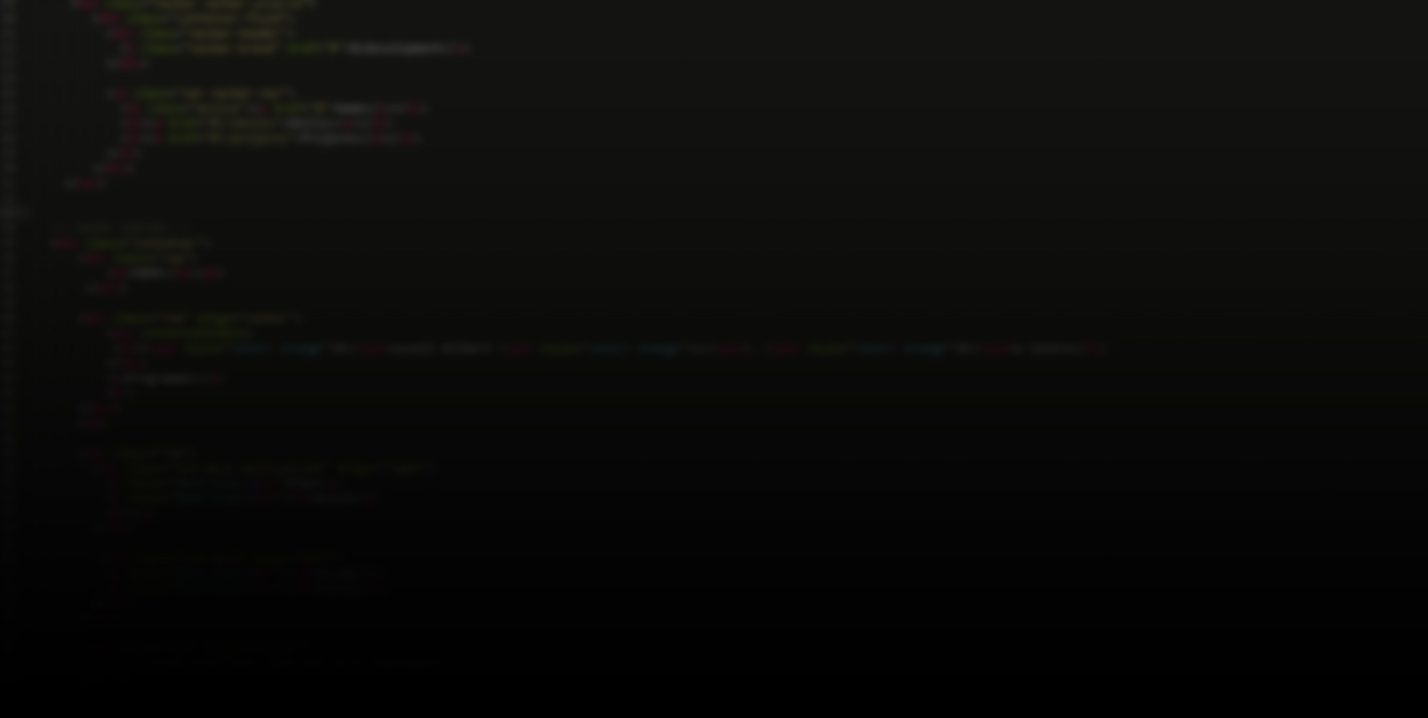
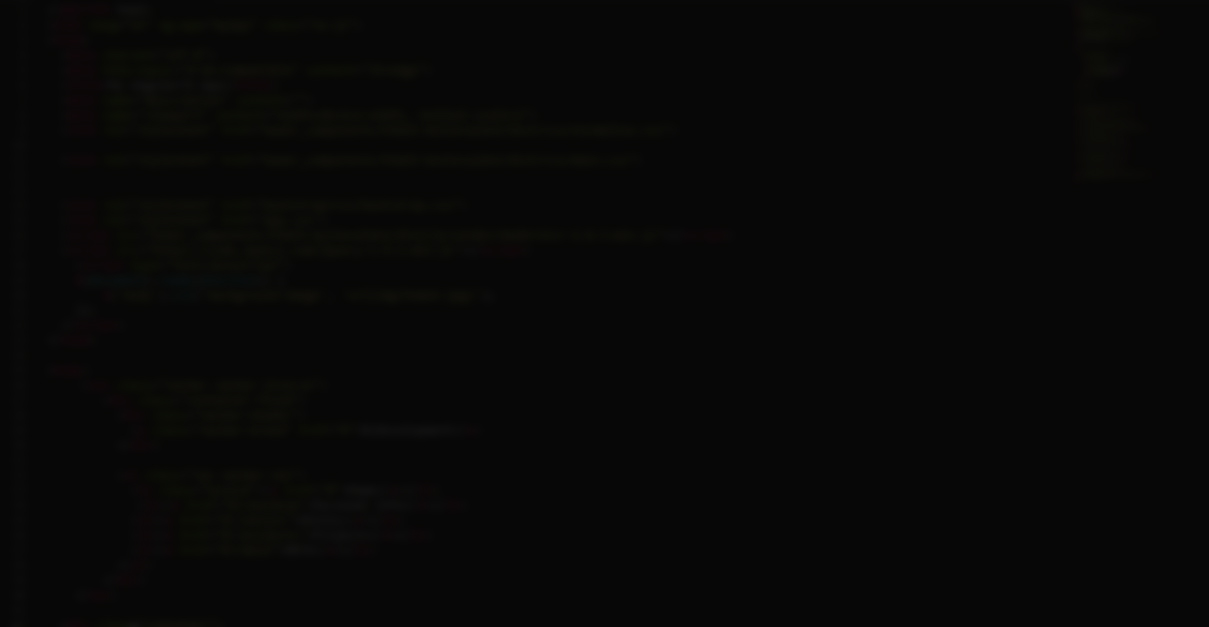
Added new tab for Work Exp, Seminars and Educational Attainment. Updated also home page, added About Me and link to upwork profile for professional reference

Changed region(s): [[0.0612, 0.0, 0.3366, 0.0909], [0.1836, 0.1212, 0.2754, 0.1818], [0.153, 0.1212, 0.1836, 0.1515]]

diff --git a/components/home/home-template.html b/components/home/home-template.html
@@ -1,10 +1,6 @@
-<div class="row">
-  <H2>HOME</H2><BR/>
-</div>
-
 <div class="row" align="center">
     <div contenteditable>
-     <h1><span style="color: orange">R</span>ussell Gilbert <span style="color: orange">L</span>. <span style="color: orange">D</span>e Castro</h1>
+     <h1><span class="orangeText">R</span>ussell Gilbert <span class="orangeText">L</span>. <span class="orangeText">D</span>e Castro</h1>
     </div>
     <p>Programmer</p>
     <br/>
@@ -12,18 +8,28 @@
 <BR/>
 
 <div class="row">
-  <div class="col-sm-6 verticalLine" align="right">
-    <p style="font-size:32px">Plan</p>
-    <p style="font-size:32px"><BR/>Build</p>
+  <div class="col-sm-6 verticalLine size32fnt" align="right">
+    <p>Plan</p>
+    <p><BR/>Build</p>
     <p></p>
   </div>
 
-   <div class="col-sm-6" align="left">
-    <p style="font-size:32px"><BR/>Design</p>
-    <p style="font-size:32px"><BR/>Deploy</p>
+   <div class="col-sm-6 size32fnt" align="left">
+    <p><BR/>Design</p>
+    <p><BR/>Deploy</p>
   </div>
 </div>
 
 <div class="row" align="center">
    <p><i>From front-end, back-end up to deployment.</i></p>
+   <BR>
+   <HR class="thinHR">
+
+   <div>
+   <H4>ABOUT ME</H4>
+   <p>With over 12 years of experience in software development using <B><I>JavaScript (jQuery,  angularJS and bootstrap), CSS, Adobe Flash (from MX up to CC version), Adobe  Director, Java, Android Studio, Php, HTML and MySQL</B></I>. I have a wide range of knowledge with both online, offline and mobile programming, my 1 year experience in Software Testing also aids me to produce a user friendly and high quality designs.</p>
+  </div>
+    <a href="https://www.upwork.com/o/profiles/users/_~018323515f2328e40e/" target="_blank">Upwork Profile</a> 
+    <BR> <BR>
+      <HR class="thinHR">
 </div>

diff --git a/components/workexp/workexp.component.js b/components/workexp/workexp.component.js
@@ -1,0 +1,62 @@
+'use strict';
+
+angular.module('workexp').
+	component('workexp',{
+		templateUrl:'components/workexp/workexp-template.html',
+		controller: function WorkListController(){
+
+			this.workExp = [
+				{
+					job:"Web and Mobile Developer",
+					year:"2010 – Present",
+					company:"IDESS Interactive Technologies Incorporated",
+					compULR:"http://idessinteractive.com/?home=1"
+				},
+				{	
+					job:"Multimedia Programmer",
+					year:"2005 – 2010",
+					company:"IDESS Interactive Technologies Incorporated",
+					compULR:"http://idessinteractive.com/?home=1"
+				},
+				{
+					job:"Software Tester",
+					year:"2004 – 2005",
+					company:"IDESS Interactive Technologies Incorporated",
+					compULR:"http://idessinteractive.com/?home=1"
+				}
+			];
+
+			this.seminars = [
+				{
+					title:"Introduction to JAVA",
+					year:"March 2008 – April 2008",
+					where:"AMA Learning Center – Olongapo City"
+				},
+				{
+					title:"ORACLE 9i",
+					year:"September 2007 – December 2007",
+					where:"Informatics SM Centerpoint Metro Manila"
+				},
+				{
+					title:"Web Page Designing Techniques",
+					year:"January 14, 2004",
+					where:"Bar Review Center, San Sebastian College – Recoletos, Manila"
+				},
+				{
+					title:"Internetworking Design Concepts",
+					year:"February 4,2004",
+					where:"Bar Review Center, San Sebastian College – Recoletos, Manila"
+				},
+				{
+					title:"Web Application Protocol",
+					year:"March 2004",
+					where:"Subic Seafront, Subic Bay Metropolitan Authority"
+				},
+				{
+					title:"PC Troubleshooting and Maintenance",
+					year:"December 10,2003",
+					where:"Bar Review Center, San Sebastian College – Recoletos, Manila"
+				}
+			];
+		}
+	});

diff --git a/components/mbta/mbta.component.js b/components/mbta/mbta.component.js
@@ -6,10 +6,30 @@ angular.module('mbta').
 		controller: function ProjectListController($http){
 		   var self = this;
 
-		    $http.get('https://realtime.mbta.com/developer/api/v2/stopsbylocation?api_key=wX9NwuHnZU2ToO7GmGR9uw&lat=42.346961&lon=-71.076640&format=json').
+
+		     //GET GEOLOC HERE
+  			/*navigator.geolocation.getCurrentPosition(getPos);
+
+  			function getPos(position) {
+			    self.lat = position.coords.latitude;
+			    self.long = position.coords.longitude;
+			}*/
+  			$http.get('http://ip-api.com/json').
 		    then(function(response) {
-       			 self.mbtaRes = response.data;
-    	  	});
+       			 self.geoLoc = response.data;
+       			 self.lat = response.data.lat;
+       			 self.lot = response.data.lon;
+       			 /*  $http.get('https://realtime.mbta.com/developer/api/v2/stopsbylocation?api_key=wX9NwuHnZU2ToO7GmGR9uw&lat='+response.data.lat+'&lon='+response.data.lon+'&format=json').
+				    then(function(response) {
+		       			 self.mbtaRes = response.data;
+		    	  	});*/
+       		});
+
+
+		         $http.get('https://realtime.mbta.com/developer/api/v2/stopsbylocation?api_key=wX9NwuHnZU2ToO7GmGR9uw&lat=42.346961&lon=-71.076640&format=json').
+				    then(function(response) {
+		       			 self.mbtaRes = response.data;
+		    	  	});
 		    
 		    this.stopID = "11384";
 		  
@@ -21,5 +41,7 @@ angular.module('mbta').
 
 		    	//this.stopID = ('http://realtime.mbta.com/developer/api/v2/routesbystop?api_key=wX9NwuHnZU2ToO7GmGR9uw&stop='+this.stopID+'&format=json');
   			}
+
+
 		}
 	});

diff --git a/components/workexp/workexp-template.html b/components/workexp/workexp-template.html
@@ -1,0 +1,49 @@
+<div class="row">
+  <H2>PERSONAL INFO</H2>
+  <HR>
+  <BR>
+</div>
+
+<div class="container-fluid"> 
+  <div class="row">
+      <div class="col-sm-4">
+      
+
+      </div>
+   
+      <div class="col-sm-4" align="center">
+        <H2><B>Work Experience</B></H2><BR>
+        <div class="row" ng-repeat="work in $ctrl.workExp">
+          <H3><span class="orangeText">{{work.job}}</span></H3>
+          <p>{{work.year}}</p>
+          <p>{{work.company}}</p>
+          <a href="{{work.compULR}}" target="_blank">Company Website</a>
+          <HR class="thinHR">
+        </div> 
+
+          <BR><BR>
+         <H2><B>Educational Background</B></H2><BR>
+         <div class="row">
+            <H3><span class="orangeText">Bachelor of Science Major in Computer Science</span></H3>
+            <p>1999 – 2004</p>
+            <p>San Sebastian College - Recoletos</p>
+            <HR class="thinHR">
+         </div>    
+         <BR><BR>
+         <H2><B>Seminars/Certifications</B></H2><BR>
+          <div class="row" ng-repeat="sems in $ctrl.seminars">
+          <H3><span class="orangeText">{{sems.title}}</span></H3>
+          <p>{{sems.year}}</p>
+          <p>{{sems.where}}</p>
+          <HR class="thinHR">
+        </div> 
+      </div>
+
+      <div class="col-sm-4">
+      </div>
+   </div> 
+
+   <div class="row">
+
+   </div>  
+</div>

diff --git a/index.html b/index.html
@@ -31,6 +31,7 @@
 
           <ul class="nav navbar-nav">
             <li class="active"><a href="#">Home</a></li>
+             <li><a href="#!/workexp">Personal Info</a></li>
             <li><a href="#!/skills">Skills</a></li>
             <li><a href="#!/projects">Projects</a></li>
             <li><a href="#!/mbta">MBTA</a></li>
@@ -42,11 +43,12 @@
     <div ng-view></div>
  </div>
 
+  <!--
   <footer class="footer">
     <div class="container">
       <span class="text-muted">Technologies Used: angularJS | nodeJS | bootstrap | jQuery</span>
     </div>
-  </footer>
+  </footer>-->
 
   <script src="bower_components/angular/angular.js"></script>
   <script src="bower_components/angular-route/angular-route.js"></script>
@@ -64,6 +66,10 @@
 <!-- H O M E  C O M P O N E N T-->
   <script src="components/home/home.module.js"></script>
   <script src="components/home/home.component.js"></script>
+
+<!-- W O R K   E X P   C O M P O N E N T-->
+  <script src="components/workexp/workexp.module.js"></script>
+  <script src="components/workexp/workexp.component.js"></script>
 
 
 <!-- S K I L L S  C O M P O N E N T-->

diff --git a/app.css b/app.css
@@ -52,3 +52,18 @@ hr{
 .verticalLine {
   border-right: thin solid #ffa500;
 }
+
+.thinHR{
+  height:1px;
+  border:none;
+  color:#333;
+  background-color:#333;
+}
+
+.size32fnt{
+  font-size:32px;
+}
+
+.orangeText{
+  color: orange;
+}

diff --git a/app.config.js b/app.config.js
@@ -20,6 +20,9 @@ angular.
          when('/mbta', {
           template: '<mbta></mbta>'
         }).
+          when('/workexp', {
+          template: '<workexp></workexp>'
+        }).
         otherwise('/home');
     }
   ]);

diff --git a/app.js b/app.js
@@ -7,5 +7,6 @@ angular.module('myApp', [
 	'myProjectsDetails',
 	'homePage',
 	'skills',
-	'mbta'
+	'mbta',
+	'workexp'
 ]);

diff --git a/components/workexp/workexp.module.js b/components/workexp/workexp.module.js
@@ -1,0 +1,4 @@
+'use strict';
+
+// Define the `phoneList` module
+angular.module('workexp', []);

diff --git a/components/mbta/mbta-template.html b/components/mbta/mbta-template.html
@@ -23,6 +23,6 @@
   </li>  
 </ul>
 
-
+<p>{{$ctrl.lot}}</p>
 
 
